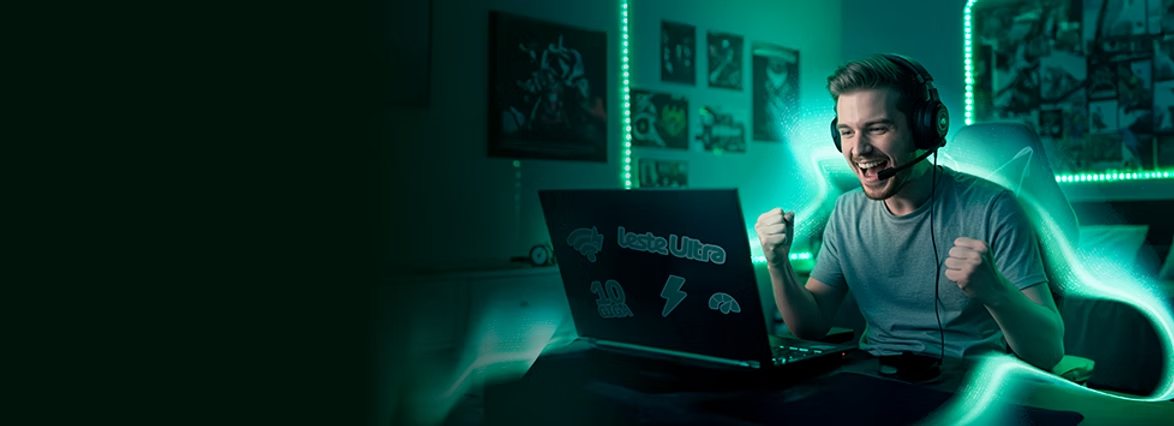
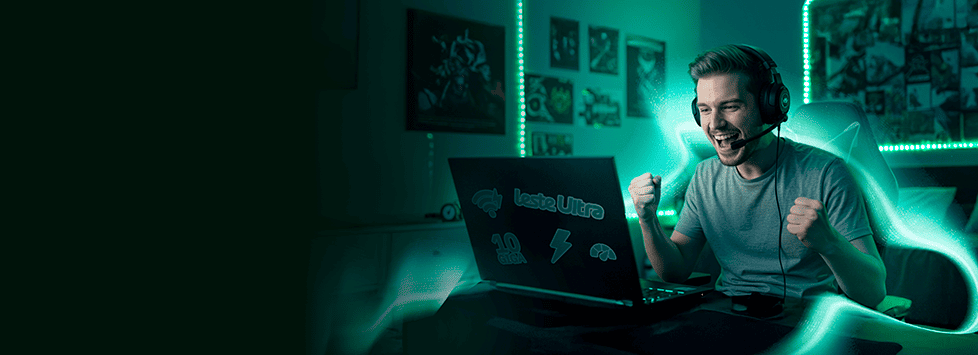
fix: ajuste imagem hero

diff --git a/src/pageComponents/home/HeroSlide.js b/src/pageComponents/home/HeroSlide.js
@@ -7,8 +7,8 @@ import { Navigation, Autoplay } from "swiper/modules";
 import "swiper/css";
 import "swiper/css/navigation";
 
-import banner from "@/assets/lesteUltraimg.png";
-import banner2 from "@/assets/lesteclube.png";
+import banner from "@/assets/bannernatal.png";
+import banner2 from "@/assets/bannerclube.png";
 export default function HeroSlider() {
   return (
     <section className="w-full">
@@ -21,13 +21,13 @@ export default function HeroSlider() {
         className="w-full"
       >
         <SwiperSlide>
-          <div className="relative h-60 sm:h-90 md:h-120 lg:h-140">
+          <div className="relative h-60 sm:h-90 md:h-120 lg:h-135">
             <Image src={banner} alt="Banner 1" fill priority className="object-cover" />
           </div>
         </SwiperSlide>
 
         <SwiperSlide>
-          <div className="relative h-60 sm:h-90 md:h-120 lg:h-140">
+          <div className="relative h-60 sm:h-90 md:h-120 lg:h-135">
             <Image src={banner2} alt="Banner 2" fill className="object-cover" />
           </div>
         </SwiperSlide>

diff --git a/src/components/layout/Section.js b/src/components/layout/Section.js
@@ -4,8 +4,8 @@ import { twMerge } from "tailwind-merge";
 
 export default function Section({children, style,className}) {
     return (
-        <section className="mx-auto w-full" style={style}>
-            <div className={twMerge("mx-auto max-w-5xl px-3 py-6 sm:px-6 lg:px-4",className)}>
+        <section className="" style={style}>
+            <div className={twMerge("container",className)}>
                 {children && React.Children.map(children, c => React.cloneElement(c))}
             </div>
         </section>

diff --git a/src/app/globals.css b/src/app/globals.css
@@ -34,3 +34,13 @@ body {
     display: none !important; 
   }
 }
+.swiper-button-prev,
+.swiper-button-next {
+  color: #f2f2f2 !important; /* cor da Leste */
+}.swiper-button-prev {
+  left: calc((100vw - 1690px) / 2 + 16px) !important;
+}
+
+.swiper-button-next {
+  right: calc((100vw - 1690px) / 2 + 16px) !important;
+}
